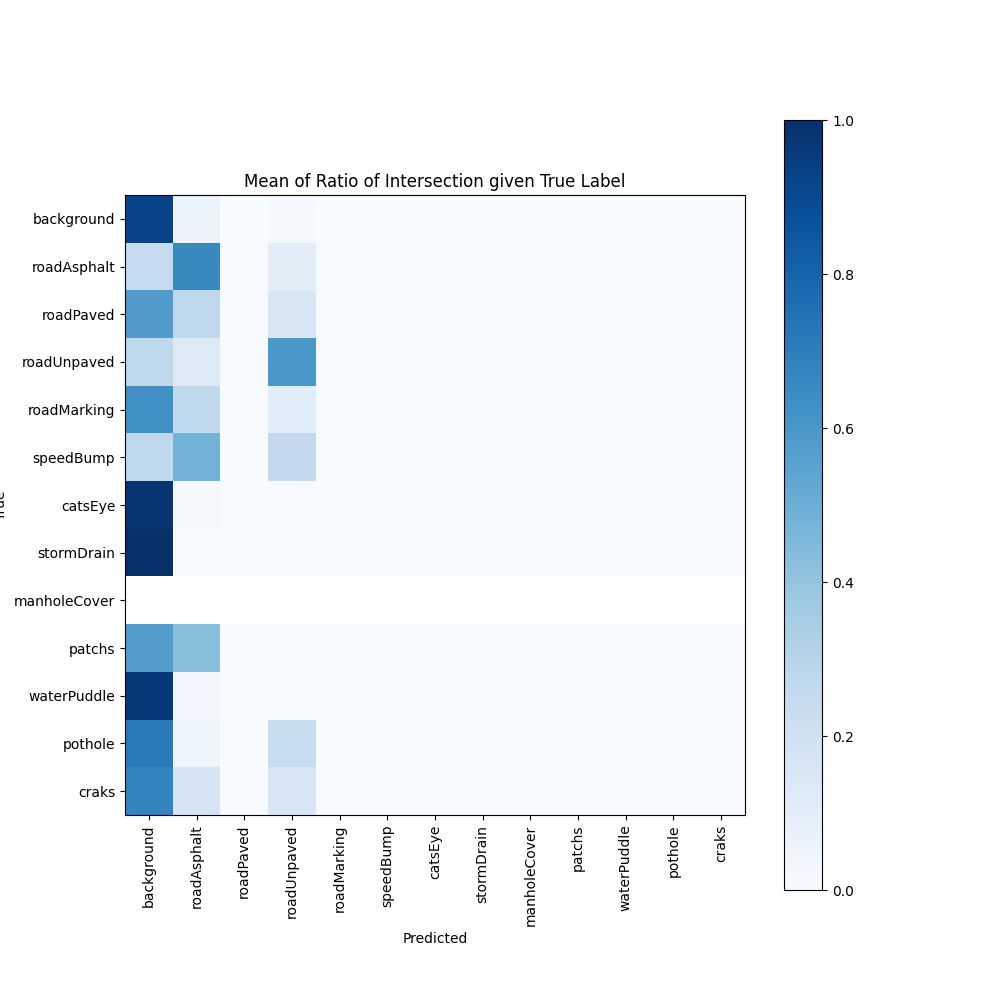
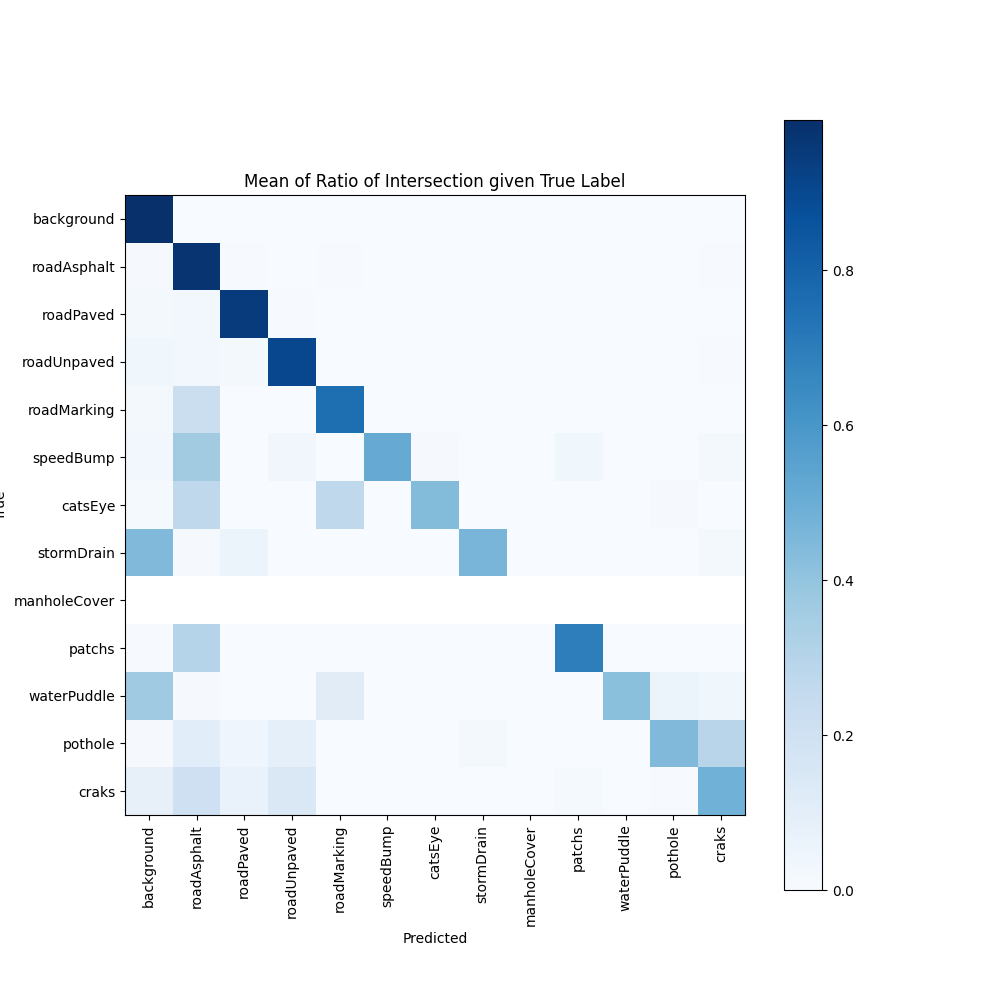
updated files

diff --git a/models/train_without_weights.py b/models/train_without_weights.py
@@ -49,32 +49,33 @@ def acc_rtk(input, target):
     return (input.argmax(dim=1)[mask]==target[mask]).float().mean()
     
 metrics=acc_rtk
-wd=1e0
+wd=1e-2
 
 learn = unet_learner(data, models.resnet34, metrics=metrics, wd=wd)
-
-lr_find(learn)
-learn.recorder.plot()
-plt.savefig('loss_plot.png')
+learn.load('1.5-stage-2')
+learn.unfreeze()
+# lr_find(learn)
+# learn.recorder.plot()
+# plt.savefig('1.5-loss_plot.png')
 
 # lr is set based on the fig above
 lr=1e-3
 #TODO: # of iterations = 10 (previously)
-learn.fit_one_cycle(10, slice(lr), pct_start=0.9)
-learn.save('stage-1')
-learn.load('stage-1')
-learn.show_results(rows=5, figsize=(15,15))
-
+# learn.fit_one_cycle(10, slice(lr), pct_start=0.9)
+# learn.save('1-stage-1')
+# learn.load('1-stage-1')
+# learn.show_results(rows=5, figsize=(15,15))
+# learn.load('stage-2-weights')
 #training without weights
-learn.unfreeze()
+# learn.unfreeze()
 lrs = slice(lr/400,lr/4)
 
 #TODO: # of iterations = 100 (previously)
-learn.fit_one_cycle(100, lrs, pct_start=0.9)
-learn.save('stage-2')
+learn.fit_one_cycle(20, lrs, pct_start=0.9)
+learn.save('1.5-stage-2-more')
 
 interp = SegmentationInterpretation.from_learner(learn)
 top_losses, top_idxs = interp.top_losses((288,352))
 mean_cm, single_img_cm = interp._generate_confusion()
 df = interp._plot_intersect_cm(mean_cm, "Mean of Ratio of Intersection given True Label")
-plt.savefig('confusion.png')
+plt.savefig('1.5-confusion-more.png')

diff --git a/models/train_with_weights.py b/models/train_with_weights.py
@@ -50,30 +50,30 @@ def acc_rtk(input, target):
     return (input.argmax(dim=1)[mask]==target[mask]).float().mean()
     
 metrics=acc_rtk
-wd=1e0
+wd=1e-2
 
 balanced_loss = CrossEntropyFlat(axis=1, weight=torch.tensor([1.0,5.0,6.0,7.0,75.0,1000.0,3100.0,3300.0,0.0,270.0,2200.0,1000.0,180.0]).cuda())
 learn = unet_learner(data, models.resnet34, metrics=metrics, loss_func=balanced_loss, wd=wd)
-learn.load('stage-2')
+learn.load('1-stage-2')
 #CUDA_LAUNCH_BLOCKING=1
 
-# lr_find(learn)
-# learn.recorder.plot()
-# plt.savefig('loss_plot_with_weights.png')
+lr_find(learn)
+learn.recorder.plot()
+plt.savefig('1-loss_plot_with_weights.png')
 
 lr=1e-5
 learn.unfreeze()
 lrs = slice(lr/400,lr/4)
 #TODO: Change # of steps 100 previously
 learn.fit_one_cycle(100, lrs, pct_start=0.8)
-learn.save('stage-2-weights')
+learn.save('1-stage-2-weights')
 
 interp = SegmentationInterpretation.from_learner(learn)
 mean_cm, single_img_cm = interp._generate_confusion()
 # global class performance
 df = interp._plot_intersect_cm(mean_cm, "Mean of Ratio of Intersection given True Label")
 # single image class performance
-plt.savefig('global_confusion_with_weights.png')
+plt.savefig('1-global_confusion_with_weights.png')
 
 
 learn.interpret

diff --git a/models/semi.py b/models/semi.py
@@ -51,6 +51,7 @@ path_rst.mkdir(exist_ok=True)
 #predict image
 num_next_round_imgs = 0
 for unlabled_name_i in tqdm(unlabled_names):
+# for unlabled_name_i in unlabled_names:
         img_s =unlabled_name_i
         img_toSave = open_image(img_s)
         img_split = f'{img_s}'
@@ -58,11 +59,13 @@ for unlabled_name_i in tqdm(unlabled_names):
         predictionSave = learn.predict(img_toSave)
         pred_prob = predictionSave[2]
         pred_prob = torch.max(pred_prob,dim=0)[0]
-        # print(torch.mean(pred_prob),torch.min(pred_prob),torch.median(pred_prob))
+        
         mean_prob = torch.mean(pred_prob)
         min_prob = torch.min(pred_prob)
+
+        # print(mean_prob,min_prob)
         #TODO: how to select next round labeled data
-        if (mean_prob > 0.975 and min_prob > 0.21):
+        if (mean_prob > 0.99 and min_prob > 0.3):
                 # print(num_next_round_imgs)
                 shutil.copyfile(f'{img_s}', "../images/"+img_split)
                 num_next_round_imgs+=1

diff --git a/models/color_results.py b/models/color_results.py
@@ -64,7 +64,7 @@ import timeit
 # path_rst = path/'results_test'
 filenames = [img for img in glob.glob(str(path_rst/"*.png"))]
 
-filenames.sort() # ADD THIS LINE
+filenames.sort(reverse=True) # ADD THIS LINE
 
 for img in tqdm(filenames):
   frame = cv.imread(img)
